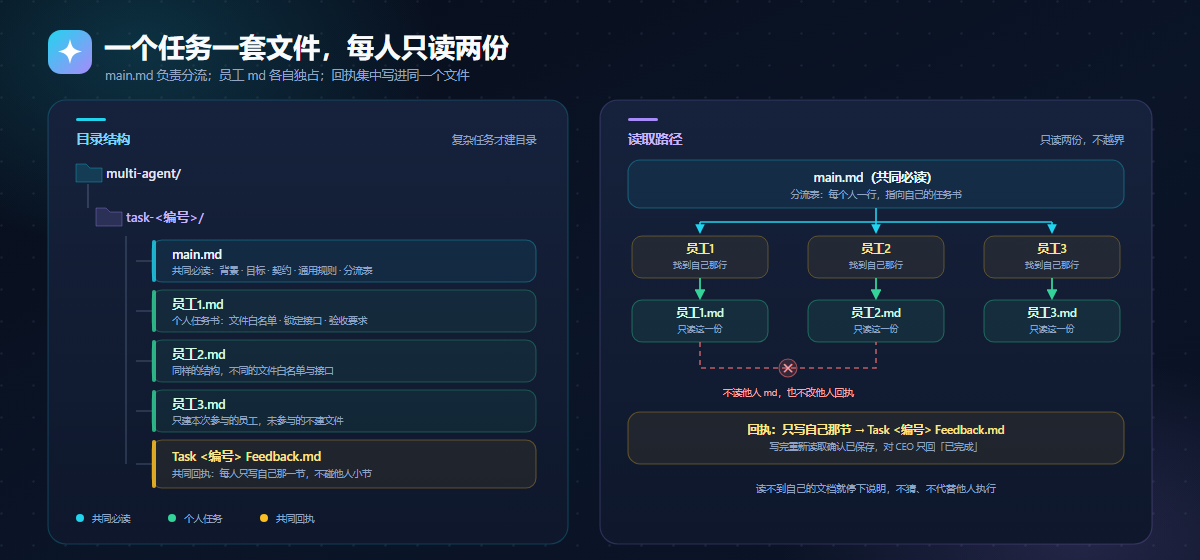
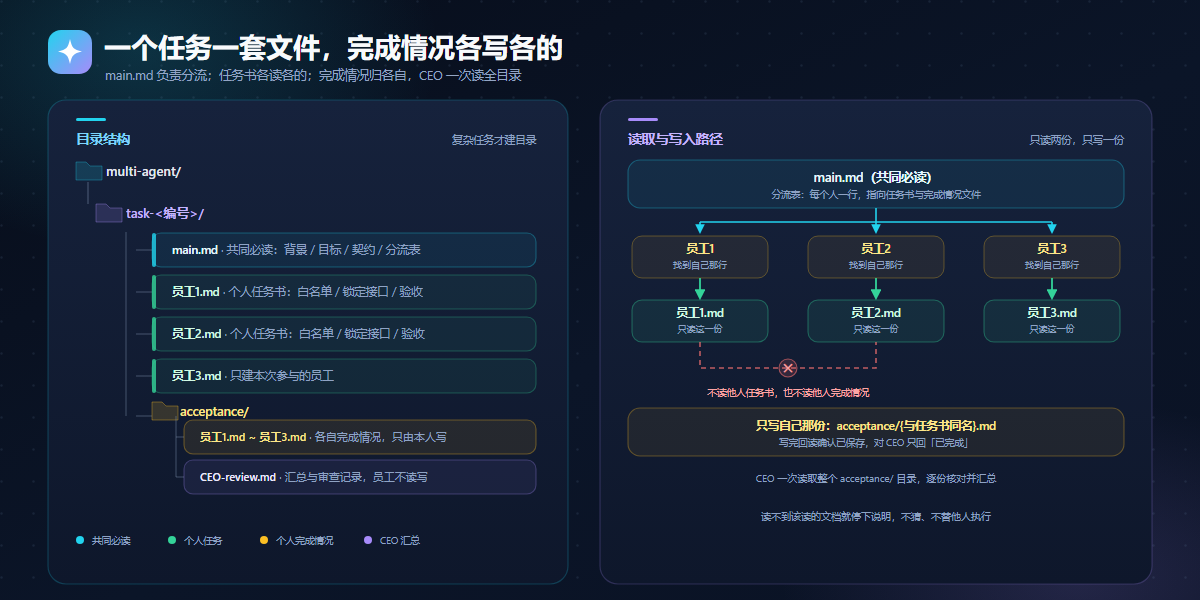
docs(readme): 同步 acceptance 完成情况架构与配图
目录树与说明改为每位员工独立完成情况文件；目录图重画并新增完成情况闭环图，删除旧回执图；图片均 1200 宽且小于 400KB。

diff --git a/README.md b/README.md
@@ -29,7 +29,7 @@
 
 ### 多 agent 目录约定
 
-![多 agent 目录结构图：main.md 负责分流，员工只读自己的任务书，回执写进同一个 Feedback 文件](docs/assets/readme-directory.png)
+![多 agent 目录结构图：main.md 负责分流，员工只读自己的任务书，完成情况写进 acceptance 下各自的文件](docs/assets/readme-directory.png)
 
 `main.md` 是所有员工共同先读的入口，员工按分流表找到自己那一行，只读自己那份任务书。
 
@@ -37,15 +37,16 @@
 |---|---|
 | `main.md` | 共同必读：任务背景、目标、接口契约、通用规则、分流表 |
 | `员工1.md / 员工2.md / 员工3.md` | 各自任务书：文件白名单、锁定接口、验收要求 |
-| `Task <编号> Feedback.md` | 共同回执：每人只写自己那一节 |
+| `acceptance/{员工}.md` | 各自的完成情况：只由本人写，与任务书同名 |
+| `acceptance/CEO-review.md` | CEO 汇总与审查记录：员工不读、不写 |
 
-读取边界：不读他人的 md，不改他人的回执小节；读不到就停下说明，冲突由 CEO 裁决。
+读取边界：不读他人的任务书，也不读他人的完成情况；写只写自己那一份，读不到就停下说明。
 
-### 回执闭环
+### 完成情况闭环
 
-![回执闭环图：员工执行后写回执小节并只回复「已完成」，CEO 读共同 Feedback、跑全量验证，输出完成情况与下一步计划](docs/assets/readme-feedback.png)
+![完成情况闭环图：员工执行后写自己那份 acceptance 文件并只回复「已完成」，CEO 一次读全目录、跑全量验证，汇总完成情况与下一步计划](docs/assets/readme-acceptance.png)
 
-员工写文件、CEO 读文件，口头回复只用于通知：员工只回一句「已完成」，CEO 读 Feedback 核对真实产出，再跑全量构建与整体验证，最后给出「本次完成情况 + 下一步任务计划」。
+员工写文件、CEO 读文件，口头回复只用于通知：员工只写 `acceptance/{自己}.md` 并回一句「已完成」；CEO 一次读整个目录、逐份核对真实产出，再跑全量构建与整体验证，最后给出「本次完成情况 + 下一步任务计划」。
 
 并行期员工只做定向检查，全量检查留到 CEO 收口，避免多会话互相检出对方半成品。
 
@@ -60,7 +61,7 @@
 
 | 技能 | 用来做什么 | 文件 |
 |---|---|---|
-| 项目 CEO（多 Agent 总指挥） | 把项目拆成任务，派给多个 AI 员工（Trae、Claude Code、Codex 等），汇总回执、逐项验收 | [skills/multi-agent.md](skills/multi-agent.md) |
+| 项目 CEO（多 Agent 总指挥） | 把项目拆成任务，派给多个 AI 员工（Trae、Claude Code、Codex 等），读取各自的完成情况、逐项验收 | [skills/multi-agent.md](skills/multi-agent.md) |
 
 ## 相比传统反代：无封号风险
 
@@ -100,8 +101,8 @@ any-skills/
 │   └── assets/
 │       ├── og-architecture.svg / .png      # 分享预览图（1200×630）
 │       ├── readme-difficulty.svg / .png    # 任务难度分流图（1200×540）
-│       ├── readme-directory.svg / .png     # 多 agent 目录结构图（1200×560）
-│       ├── readme-feedback.svg / .png      # 回执闭环图（1200×520）
+│       ├── readme-directory.svg / .png     # 多 agent 目录结构图（1200×600）
+│       ├── readme-acceptance.svg / .png    # 完成情况闭环图（1200×520）
 │       └── og-meta.html                    # og:image / twitter:image 元信息
 └── skills/
     └── multi-agent.md
